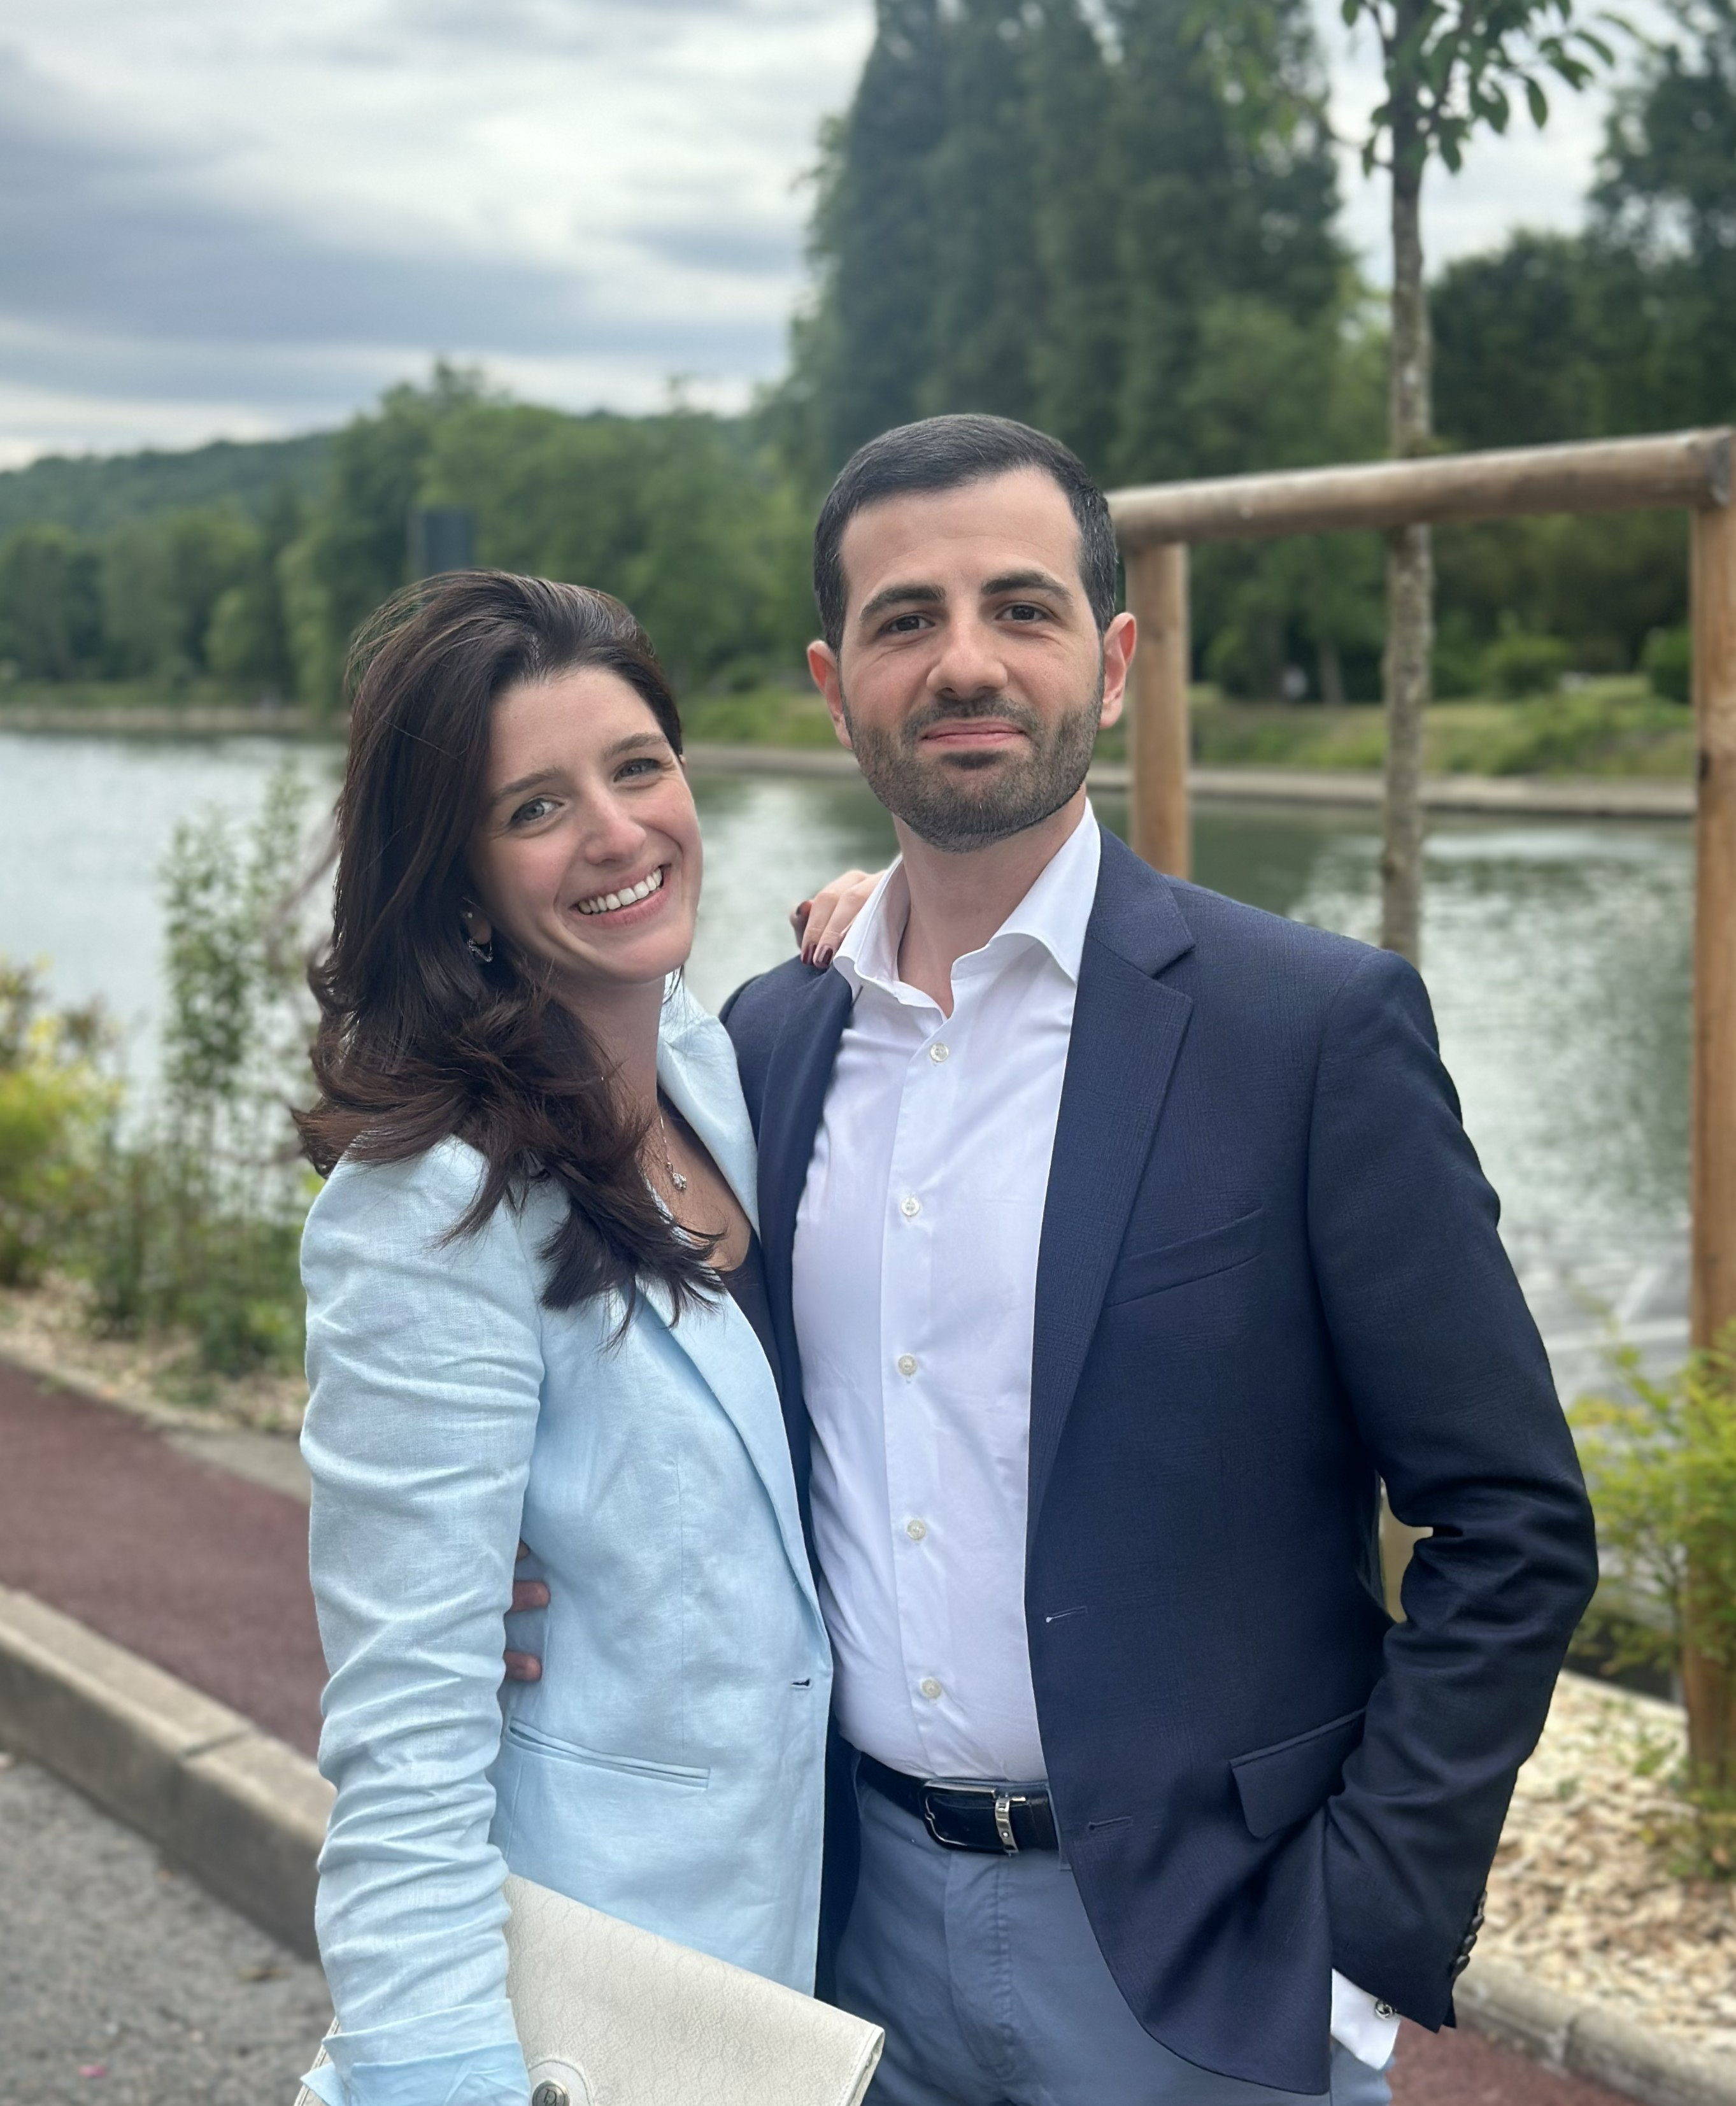
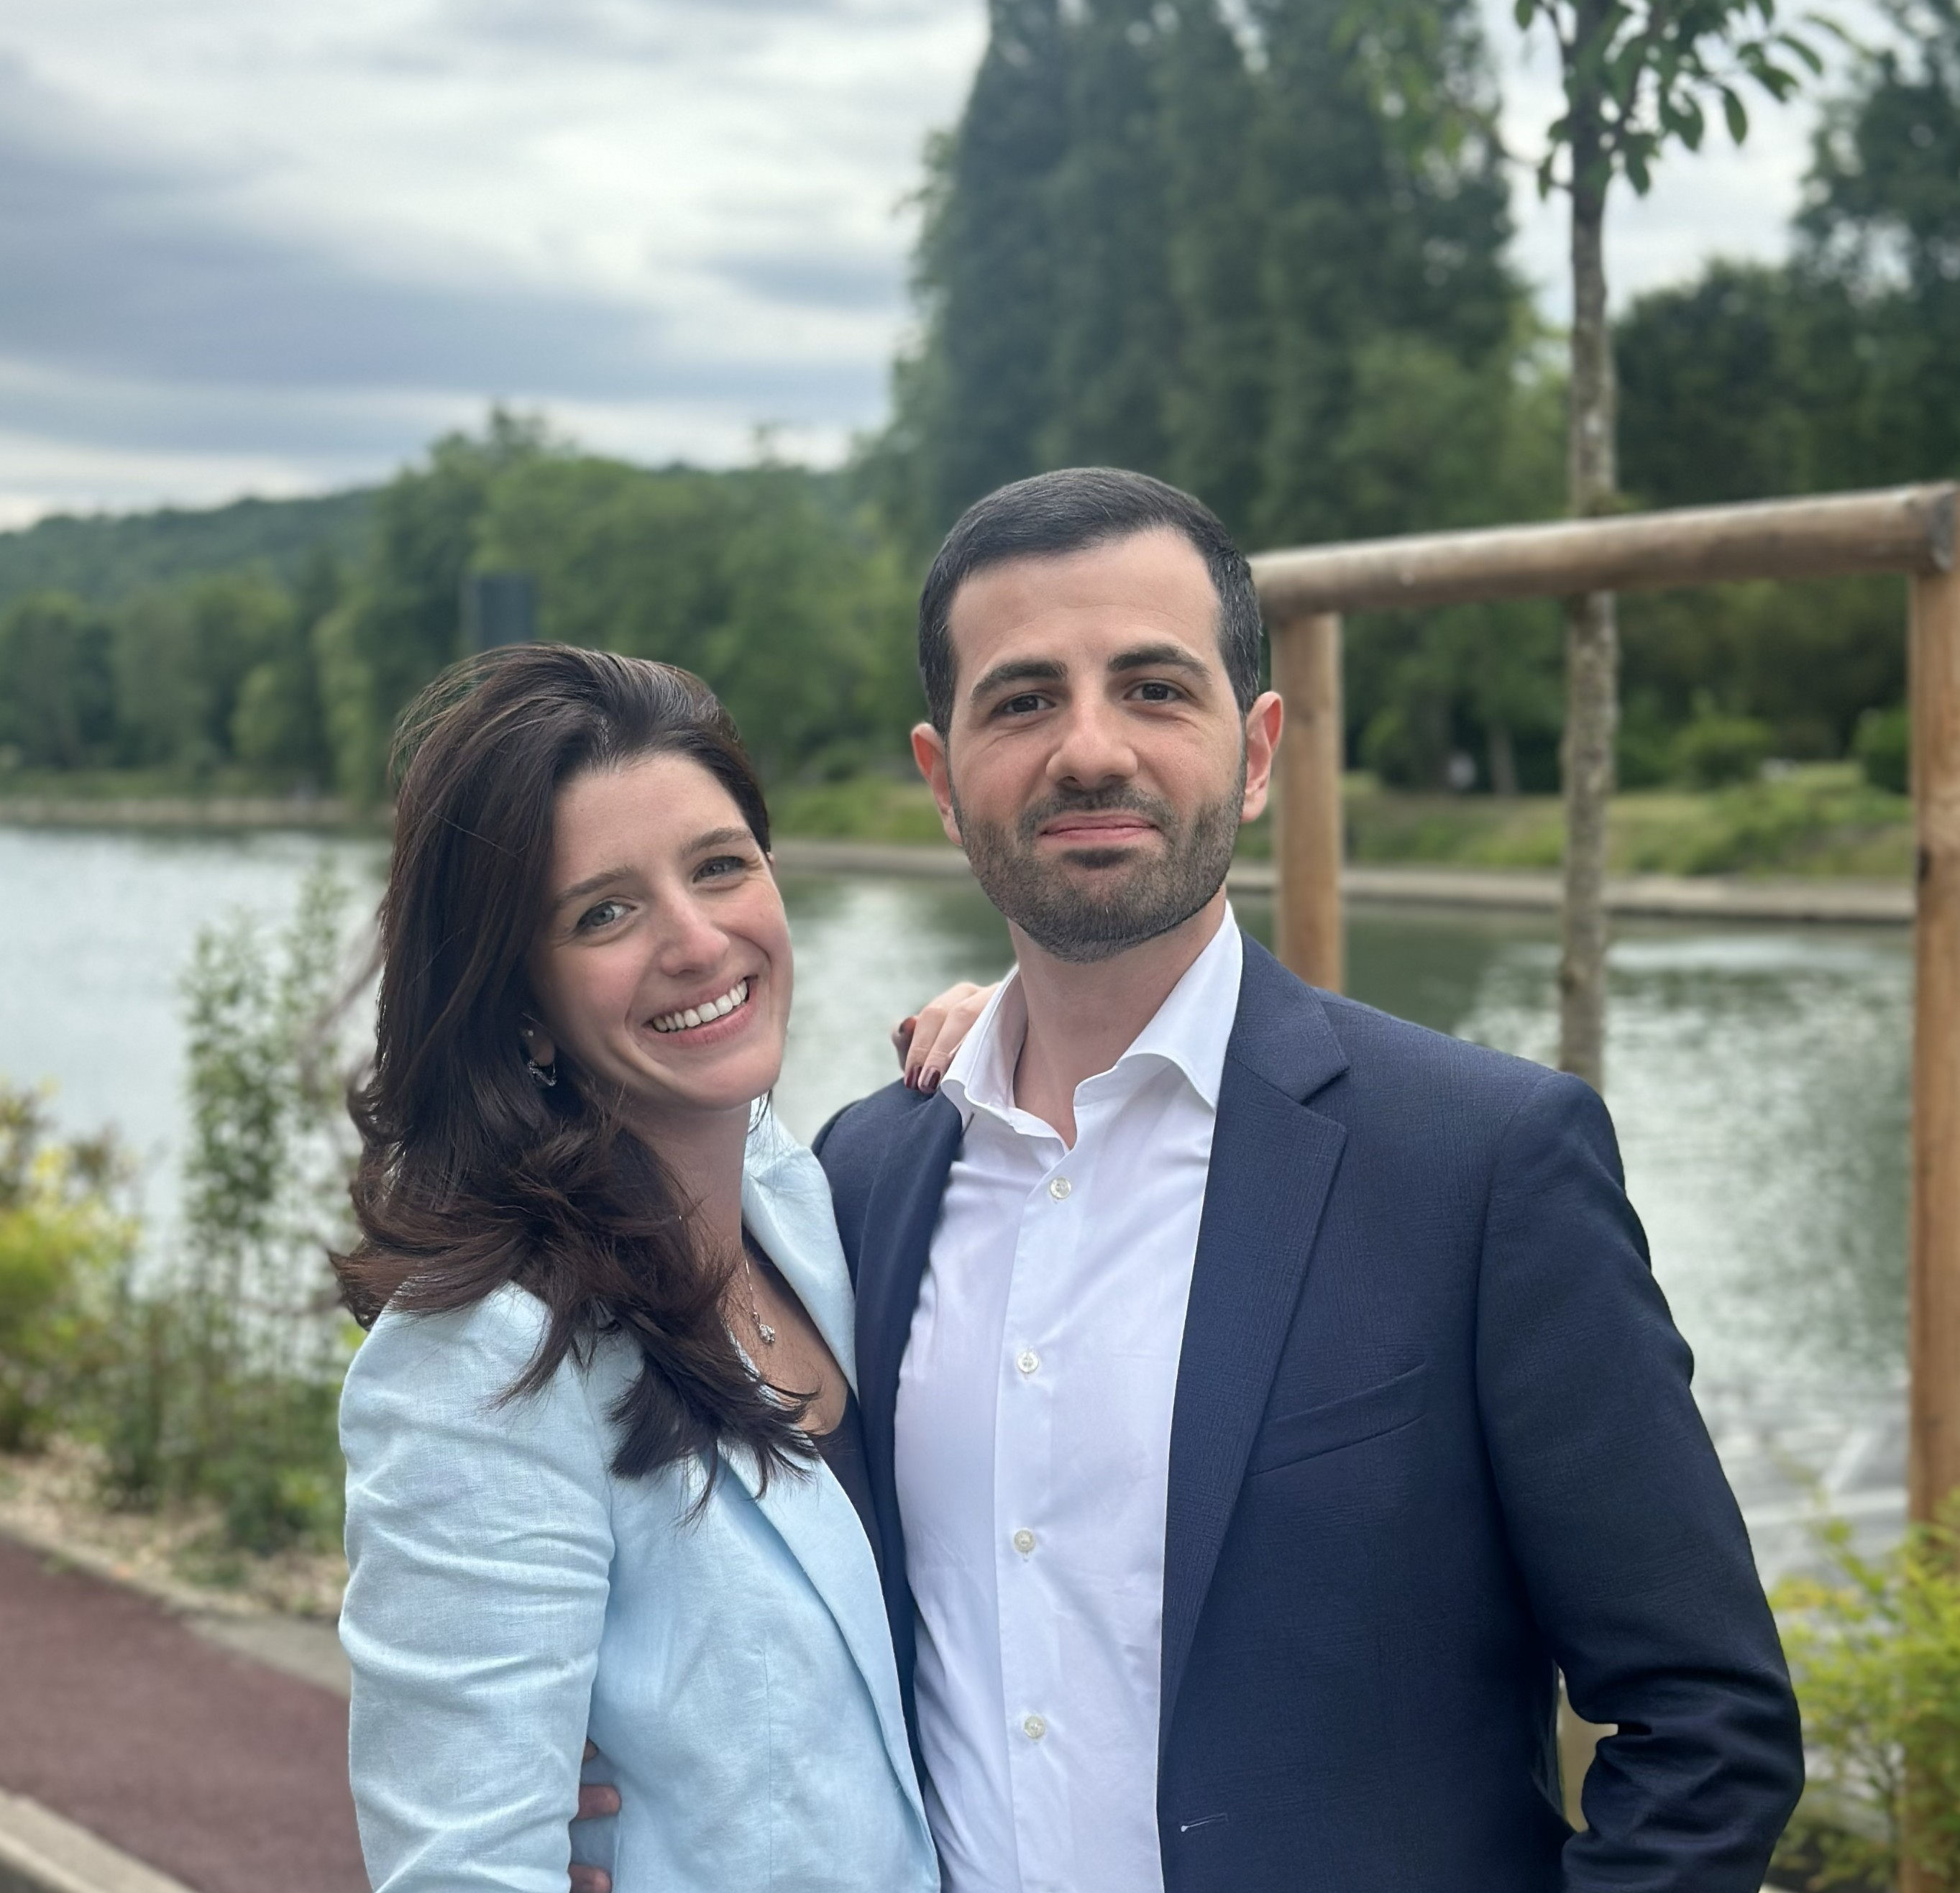
Updates

diff --git a/travel.html b/travel.html
@@ -3,7 +3,7 @@
 <head>
     <meta charset="UTF-8">
     <meta name="viewport" content="width=device-width, initial-scale=1.0">
-    <title>Travel & Accommodation | Nicolas & Cecilia</title>
+    <title>Things to Do | Nicolas & Cecilia</title>
 
     <!-- Google Fonts -->
     <link rel="preconnect" href="https://fonts.googleapis.com">
@@ -144,7 +144,7 @@
         </button>
         <ul class="nav-links">
             <li><a href="index.html">Welcome</a></li>
-            <li><a href="travel.html" class="active">Travel &amp; Accommodation</a></li>
+            <li><a href="travel.html" class="active">Things to Do</a></li>
             <li><a href="registry.html">Wedding Registry</a></li>
             <li><a href="rsvp.html">RSVP</a></li>
         </ul>
@@ -152,10 +152,10 @@
 
     <main>
         <!-- ==================== HERO ==================== -->
-        <section class="hero hero-short" style="background-image: url('images/Things To Do/Top image updated.jpg'); background-position: center 50%;">
+        <section class="hero hero-short" style="background-image: url('images/Things To Do/Top part.jpg'); background-position: center 50%;">
             <div class="hero-content">
-                <span class="hero-page-label">Getting Here</span>
-                <h1 class="script-heading">Travel &amp; Accommodation</h1>
+                <span class="hero-page-label">Lebanon</span>
+                <h1 class="script-heading">Things to Do</h1>
                 <div class="hero-accent-block">
                     <div class="hero-accent-line"></div>
                     <div class="hero-subtitle-block">
@@ -280,7 +280,7 @@
                 <div class="card-grid">
                     <!-- Card 1: Pigeon Rocks -->
                     <div class="card fade-in">
-                        <div class="card-img" style="background-image: url('https://images.unsplash.com/photo-1558618047-3c8c76ca7d13?w=600&q=80'); background-size: cover; background-position: center;"></div>
+                        <div class="card-img" style="background-image: url('images/Things To Do/Raouche.jpg'); background-size: cover; background-position: center;"></div>
                         <div class="card-body">
                             <h3>Pigeon Rocks (Raouché)</h3>
                             <p>Beirut's most iconic landmark — two towering natural rock arches rising dramatically from the Mediterranean. Head to the Raouché promenade at golden hour for an unforgettable view.</p>
@@ -289,7 +289,7 @@
 
                     <!-- Card 2: Beirut Corniche & Zaytouna Bay -->
                     <div class="card fade-in">
-                        <div class="card-img" style="background-image: url('https://images.unsplash.com/photo-1596402184320-417e7178b2cd?w=600&q=80'); background-size: cover; background-position: center;"></div>
+                        <div class="card-img" style="background-image: url('images/Things To Do/Zaytouna.jpg'); background-size: cover; background-position: center;"></div>
                         <div class="card-body">
                             <h3>Beirut Corniche &amp; Zaytouna Bay</h3>
                             <p>Stroll Beirut's beloved 4.8km seafront promenade and continue to Zaytouna Bay — a chic waterfront marina lined with restaurants, cafés, and views of the city skyline. Perfect morning or evening outing.</p>
@@ -298,7 +298,7 @@
 
                     <!-- Card 3: Byblos (Jbeil) -->
                     <div class="card fade-in">
-                        <div class="card-img" style="background-image: url('https://images.unsplash.com/photo-1608001864745-1a1faa8b765d?w=600&q=80'); background-size: cover; background-position: center;"></div>
+                        <div class="card-img" style="background-image: url('images/Things To Do/Byblos.jpg'); background-size: cover; background-position: center;"></div>
                         <div class="card-body">
                             <h3>Byblos (Jbeil)</h3>
                             <p>One of the oldest continuously inhabited cities in the world, just 40km from Beirut. Wander the ancient port, explore the Crusader castle, and lose yourself in the old souk — a maze of artisan shops and open-air cafés.</p>
@@ -307,7 +307,7 @@
 
                     <!-- Card 4: Roman Ruins in Baalbek -->
                     <div class="card fade-in">
-                        <div class="card-img" style="background-image: url('https://images.unsplash.com/photo-1568322445389-f64ac2515020?w=600&q=80'); background-size: cover; background-position: center;"></div>
+                        <div class="card-img" style="background-image: url('images/Things To Do/Baalbek.jpg'); background-size: cover; background-position: center;"></div>
                         <div class="card-body">
                             <h3>Roman Ruins in Baalbek</h3>
                             <p>A UNESCO World Heritage Site and one of the best-preserved Roman complexes in the world. The Temple of Jupiter and Temple of Bacchus are staggering in scale — a must-see for any history lover.</p>
@@ -316,7 +316,7 @@
 
                     <!-- Card 5: Batroun -->
                     <div class="card fade-in">
-                        <div class="card-img" style="background-image: url('https://images.unsplash.com/photo-1570077188670-e3a8d69ac5ff?w=600&q=80'); background-size: cover; background-position: center;"></div>
+                        <div class="card-img" style="background-image: url('images/Things To Do/Batroun.jpg'); background-size: cover; background-position: center;"></div>
                         <div class="card-body">
                             <h3>Batroun</h3>
                             <p>A charming coastal town 55km north of Beirut with a 2,000-year-old Phoenician sea wall, a pretty souk of artisan boutiques and restaurants, and lively beach clubs and bars that come alive after dark.</p>
@@ -325,7 +325,7 @@
 
                     <!-- Card 6: Jeita Grotto -->
                     <div class="card fade-in">
-                        <div class="card-img" style="background-image: url('https://images.unsplash.com/photo-1504701954957-2010ec3bcec1?w=600&q=80'); background-size: cover; background-position: center;"></div>
+                        <div class="card-img" style="background-image: url('images/Things To Do/Jeita Grotto.jpg'); background-size: cover; background-position: center;"></div>
                         <div class="card-body">
                             <h3>Jeita Grotto</h3>
                             <p>An extraordinary system of two interconnected limestone caves 18km north of Beirut. Glide by boat through the lower cave's underground lake and walk among glittering stalactite formations above — a true natural wonder.</p>
@@ -334,7 +334,7 @@
 
                     <!-- Card 7: Cedars of God -->
                     <div class="card fade-in">
-                        <div class="card-img" style="background-image: url('https://images.unsplash.com/photo-1448375240586-882707db888b?w=600&q=80'); background-size: cover; background-position: center;"></div>
+                        <div class="card-img" style="background-image: url('images/Things To Do/Cedars of God.jpg'); background-size: cover; background-position: center;"></div>
                         <div class="card-body">
                             <h3>Cedars of God (Bsharri)</h3>
                             <p>A UNESCO World Heritage Site deep in the mountains of northern Lebanon — a sacred grove of ancient cedar trees, some over 1,000 years old. The surrounding Bsharri village and Qadisha Valley make it a full day of breathtaking scenery.</p>
@@ -343,7 +343,7 @@
 
                     <!-- Card 8: Chouf & Beiteddine Palace -->
                     <div class="card fade-in">
-                        <div class="card-img" style="background-image: url('https://images.unsplash.com/photo-1560969184-10fe8719e047?w=600&q=80'); background-size: cover; background-position: center;"></div>
+                        <div class="card-img" style="background-image: url('images/Things To Do/Beiteddine Palace.jpg'); background-size: cover; background-position: center;"></div>
                         <div class="card-body">
                             <h3>Chouf &amp; Beiteddine Palace</h3>
                             <p>A magnificent 19th-century palace nestled in the Chouf mountains, surrounded by forests of cedar and oak. The palace's intricate Arabic architecture and mosaic courtyards are among the finest examples of Lebanese heritage.</p>
@@ -352,7 +352,7 @@
 
                     <!-- Card 9: Al-Shouf Cedar Nature Reserve -->
                     <div class="card fade-in">
-                        <div class="card-img" style="background-image: url('https://images.unsplash.com/photo-1501854140801-50d01698950b?w=600&q=80'); background-size: cover; background-position: center;"></div>
+                        <div class="card-img" style="background-image: url('images/Things To Do/Cedars of Shouf.jpg'); background-size: cover; background-position: center;"></div>
                         <div class="card-body">
                             <h3>Al-Shouf Cedar Nature Reserve</h3>
                             <p>Lebanon's largest nature reserve, covering nearly 5% of the country. Home to wolves, gazelles, and spectacular cedar forests — perfect for hiking, birdwatching, and escaping the city for a day of mountain air and wilderness.</p>

diff --git a/index.html b/index.html
@@ -854,7 +854,7 @@
         </button>
         <ul class="nav-links">
             <li><a href="index.html">Welcome</a></li>
-            <li><a href="travel.html">Travel &amp; Accommodation</a></li>
+            <li><a href="travel.html">Things to Do</a></li>
             <li><a href="registry.html">Wedding Registry</a></li>
             <li><a href="rsvp.html">RSVP</a></li>
         </ul>

diff --git a/registry.html b/registry.html
@@ -202,7 +202,7 @@
         </button>
         <ul class="nav-links">
             <li><a href="index.html">Welcome</a></li>
-            <li><a href="travel.html">Travel &amp; Accommodation</a></li>
+            <li><a href="travel.html">Things to Do</a></li>
             <li><a href="registry.html" class="active">Wedding Registry</a></li>
             <li><a href="rsvp.html">RSVP</a></li>
         </ul>

diff --git a/rsvp.html b/rsvp.html
@@ -23,7 +23,7 @@
         </button>
         <ul class="nav-links">
             <li><a href="index.html">Welcome</a></li>
-            <li><a href="travel.html">Travel &amp; Accommodation</a></li>
+            <li><a href="travel.html">Things to Do</a></li>
             <li><a href="registry.html">Wedding Registry</a></li>
             <li><a href="rsvp.html" class="active">RSVP</a></li>
         </ul>